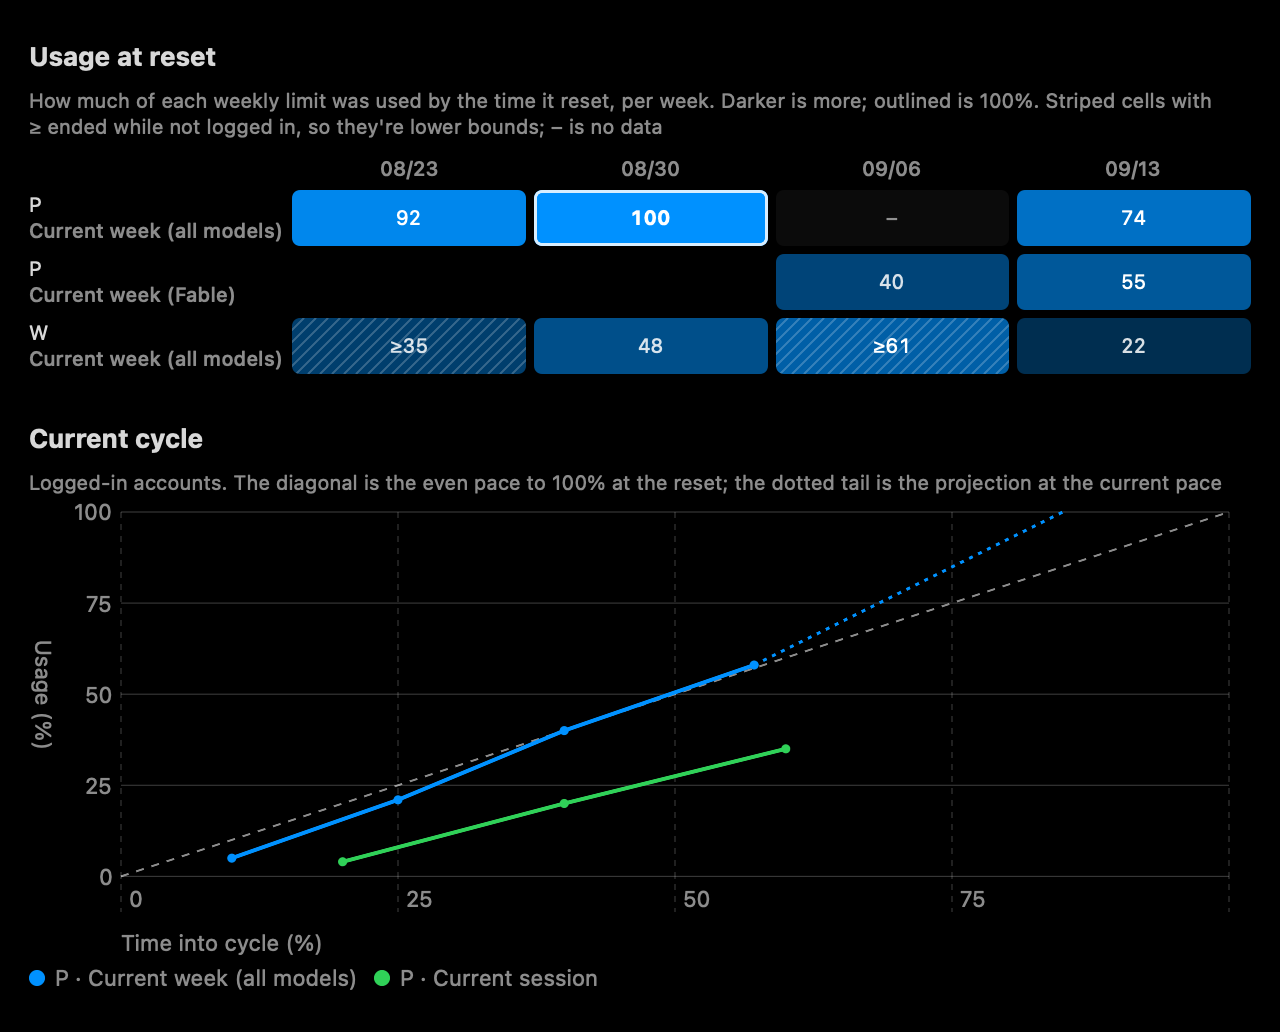
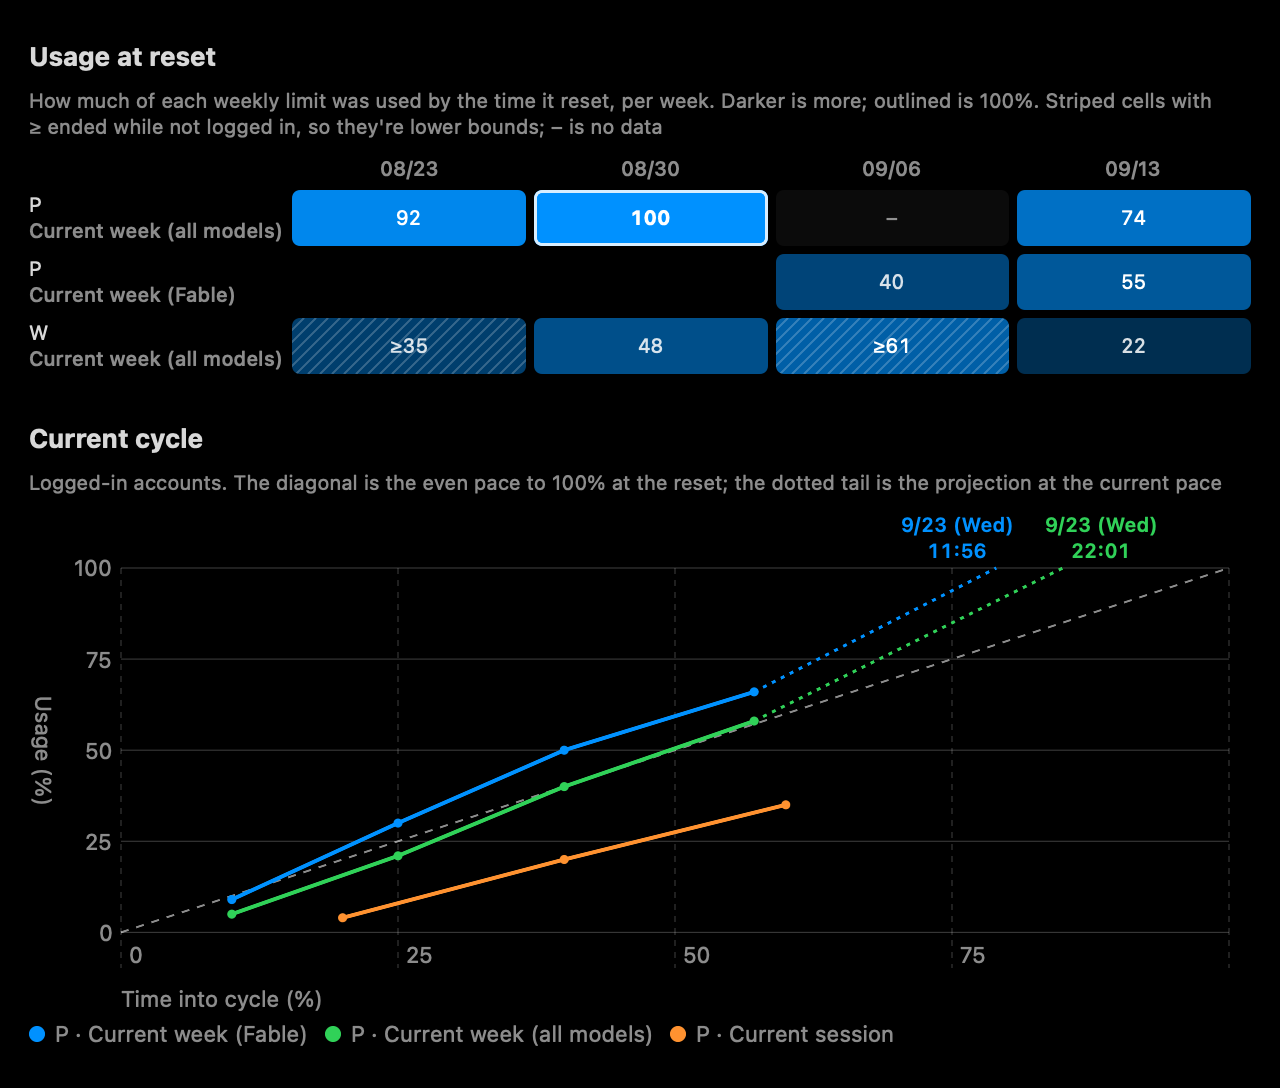
Label when each projected tail hits 100% in the burndown
Each dotted tail that reaches 100% before its reset gets the day and time
(M/d (E) over HH:mm) right above its end, in the line's color, so the
absolute time is readable on a chart whose x axis is the share of the cycle.
Hovering shows the reset and how much earlier the limit comes. Labels sit
on one row; only where they would overlap or leave the chart are they
nudged sideways (AnalyticsModel.spread, which moves overlapping runs as
little as possible). The panel is unchanged.

diff --git a/Sources/Quotaback/Core/AnalyticsModel.swift b/Sources/Quotaback/Core/AnalyticsModel.swift
@@ -122,6 +122,8 @@ enum AnalyticsModel {
         let elapsed: Double
         let percent: Double
         let kind: Kind
+        /// The reset that ends this cycle
+        let resetsAt: Date
 
         var id: String { "\(series) \(kind) \(at.timeIntervalSince1970)" }
     }
@@ -144,14 +146,64 @@ enum AnalyticsModel {
             let series = "\(lw.account.id) \(w.key)"
             let label = "\(titles(lw.account)) · \(w.title)"
             var points = lw.points.map {
-                BurnPoint(series: series, label: label, at: $0.0, elapsed: elapsed($0.0), percent: $0.1, kind: .observed)
+                BurnPoint(series: series, label: label, at: $0.0, elapsed: elapsed($0.0), percent: $0.1, kind: .observed,
+                          resetsAt: reset)
             }
             if let eta = lw.estimate.limitETA, let last = lw.points.last {
-                points += [BurnPoint(series: series, label: label, at: last.0, elapsed: elapsed(last.0), percent: last.1, kind: .projected),
-                           BurnPoint(series: series, label: label, at: eta, elapsed: elapsed(eta), percent: 100, kind: .projected)]
+                points += [BurnPoint(series: series, label: label, at: last.0, elapsed: elapsed(last.0), percent: last.1, kind: .projected,
+                                     resetsAt: reset),
+                           BurnPoint(series: series, label: label, at: eta, elapsed: elapsed(eta), percent: 100, kind: .projected,
+                                     resetsAt: reset)]
             }
             return points
         }
     }
 
+    /// The end of a projected tail: when the window is projected to hit its limit before the reset
+    struct LimitMark: Identifiable, Hashable {
+        let series: String
+        let label: String
+        let elapsed: Double
+        let at: Date
+        let resetsAt: Date
+
+        var id: String { series }
+    }
+
+    /// The limit marks of `burndown`'s projections, earliest first
+    static func limitMarks(_ points: [BurnPoint]) -> [LimitMark] {
+        points.filter { $0.kind == .projected && $0.percent >= 100 }
+            .sorted { $0.at < $1.at }
+            .map { LimitMark(series: $0.series, label: $0.label, elapsed: $0.elapsed, at: $0.at, resetsAt: $0.resetsAt) }
+    }
+
+    /// Centers for labels `width` wide that want to sit at `xs`, moved as little as possible so that none overlap
+    /// and all stay `within` (best effort: when they can't all fit, they overlap evenly). Same order as `xs`
+    static func spread(_ xs: [Double], width: Double, within bounds: ClosedRange<Double>) -> [Double] {
+        let order = xs.indices.sorted { xs[$0] < xs[$1] }
+        let lo = bounds.lowerBound + width / 2, hi = max(lo, bounds.upperBound - width / 2)
+        // Runs of labels packed side by side; a run sits where the mean of its labels' wishes puts it
+        struct Run { var first: Int; var count: Int; var sum: Double; var start: Double }
+        var runs: [Run] = []
+        for (k, i) in order.enumerated() {
+            let wish = min(hi, max(lo, xs[i]))
+            var run = Run(first: k, count: 1, sum: wish, start: wish)
+            while let prev = runs.last, prev.start + Double(prev.count) * width > run.start {
+                runs.removeLast()
+                let count = prev.count + run.count
+                // Each label's wish minus its offset in the merged run
+                let sum = prev.sum + run.sum - Double(prev.count) * width * Double(run.count)
+                let span = Double(count - 1) * width
+                let start = hi - lo >= span ? min(hi - span, max(lo, sum / Double(count))) : lo
+                run = Run(first: prev.first, count: count, sum: sum, start: start)
+            }
+            runs.append(run)
+        }
+        var out = xs
+        for run in runs {
+            let step = run.count > 1 ? min(width, (hi - lo) / Double(run.count - 1)) : 0
+            for k in 0..<run.count { out[order[run.first + k]] = run.start + Double(k) * step }
+        }
+        return out
+    }
 }

diff --git a/Sources/Quotaback/AnalyticsView.swift b/Sources/Quotaback/AnalyticsView.swift
@@ -150,6 +150,10 @@ struct AnalyticsCharts: View {
         if points.isEmpty {
             empty()
         } else {
+            // Explicit colors so that the limit labels (plain views, not marks) can match their lines
+            let labels = points.map(\.label).reduce(into: [String]()) { if !$0.contains($1) { $0.append($1) } }
+            let color = { (label: String) in Self.seriesColors[(labels.firstIndex(of: label) ?? 0) % Self.seriesColors.count] }
+            let marks = AnalyticsModel.limitMarks(points)
             Chart {
                 LineMark(x: .value(L10n.analyticsElapsed, 0), y: .value("%", 0), series: .value("Line", "ideal"))
                     .foregroundStyle(Color.secondary)
@@ -169,14 +173,54 @@ struct AnalyticsCharts: View {
                     }
                 }
             }
+            .chartForegroundStyleScale(domain: labels, range: labels.map(color))
             .chartXScale(domain: 0...100)
             .chartYScale(domain: 0...100)
             .chartXAxisLabel(L10n.analyticsElapsed)
             .chartYAxis { AxisMarks(position: .leading) }
             .chartYAxisLabel(L10n.analyticsUsage, position: .leading)
             .chartLegend(position: .bottom, alignment: .leading)
+            // Above the end of each tail, nudged sideways only where labels would overlap or leave the chart
+            .chartOverlay { proxy in
+                GeometryReader { geo in
+                    let plot = geo[proxy.plotAreaFrame]
+                    let xs = AnalyticsModel.spread(marks.map { plot.minX + (proxy.position(forX: $0.elapsed) ?? 0) },
+                                                   width: Self.limitLabelWidth, within: 0...geo.size.width)
+                    ForEach(Array(zip(marks, xs)), id: \.0.id) { m, x in
+                        limitLabel(m, color: color(m.label))
+                            .position(x: x, y: plot.minY - Self.limitLabelHeight / 2 - 2)
+                    }
+                }
+            }
             .frame(height: 240)
+            .padding(.top, marks.isEmpty ? 0 : Self.limitLabelHeight + 2)
         }
+    }
+
+    /// When the tail hits 100%: the day over the time, in the line's color. Hover for the reset and how much earlier
+    private func limitLabel(_ m: AnalyticsModel.LimitMark, color: Color) -> some View {
+        VStack(spacing: 0) {
+            Text(Self.limitFormat("M/d (E)", m.at))
+            Text(Self.limitFormat("HH:mm", m.at))
+        }
+        .font(.caption2.monospacedDigit().weight(.semibold))
+        .foregroundStyle(color)
+        .fixedSize()
+        .help(L10n.analyticsLimitHelp(WindowRow.format(m.at), L10n.duration(m.resetsAt.timeIntervalSince(m.at)),
+                                      WindowRow.format(m.resetsAt)))
+    }
+
+    /// Room a limit label takes, a little more than "12/30 (Wed)" so that neighbors keep a gap
+    private static let limitLabelWidth: CGFloat = 72
+    private static let limitLabelHeight: CGFloat = 26
+    private static let seriesColors: [Color] = [.blue, .green, .orange, .purple, .red, .teal, .pink, .yellow]
+
+    /// The parts of the panel's "M/d (E) HH:mm"
+    private static func limitFormat(_ format: String, _ d: Date) -> String {
+        let f = DateFormatter()
+        f.locale = L10n.locale
+        f.dateFormat = format
+        return f.string(from: d)
     }
 
 }

diff --git a/Tests/QuotabackTests/AnalyticsModelTests.swift b/Tests/QuotabackTests/AnalyticsModelTests.swift
@@ -120,6 +120,43 @@ final class AnalyticsModelTests: XCTestCase {
         XCTAssertEqual(projected.map(\.percent), [40, 100])
     }
 
+    func testLimitMarksAreTheProjectedLimitsEarliestFirst() {
+        let reset = t0 + 4 * day
+        let start = reset - week
+        let live = [("a", 0.9), ("b", 0.3), ("c", nil)].map { key, share in
+            AnalyticsInput.LiveWindow(account: p, estimate: estimate(window(key, percent: 20, resetsAt: reset),
+                                                                     eta: share.map { start + $0 * week }),
+                                      points: [(start + 0.1 * week, 10), (start + 0.2 * week, 20)])
+        }
+        let marks = AnalyticsModel.limitMarks(AnalyticsModel.burndown(live, titles: titles))
+        XCTAssertEqual(marks.map(\.series), ["b", "a"].map { "\(p.id) \($0)" })
+        XCTAssertEqual(marks.first?.at, start + 0.3 * week)
+        XCTAssertEqual(marks.first?.resetsAt, reset)
+    }
+
+    func testSpreadMovesOnlyOverlappingLabels() {
+        // Far apart: untouched
+        XCTAssertEqual(AnalyticsModel.spread([100, 300, 200], width: 50, within: 0...500), [100, 300, 200])
+        // 200 and 220 overlap: pushed apart evenly around their middle; 400 stays
+        XCTAssertEqual(AnalyticsModel.spread([220, 400, 200], width: 50, within: 0...500), [235, 400, 185])
+        // 200 and 220 push apart to 185 and 235, which now overlaps 150 (50 apart before): all three form one run
+        XCTAssertEqual(AnalyticsModel.spread([150, 200, 220], width: 50, within: 0...500), [140, 190, 240])
+        // Kept inside: the right edge holds the last label at 475
+        XCTAssertEqual(AnalyticsModel.spread([480, 490], width: 50, within: 0...500), [425, 475])
+        // Too many to fit: spread evenly across the whole width, overlapping as little as possible
+        XCTAssertEqual(AnalyticsModel.spread([50, 50, 50], width: 50, within: 0...100), [25, 50, 75])
+    }
+
+    func testDuration() {
+        L10n.apply("en")
+        XCTAssertEqual(L10n.duration(42 * hour + 59 * 60), "1d 18h")
+        XCTAssertEqual(L10n.duration(5 * hour + 3 * 60), "5h 3m")
+        XCTAssertEqual(L10n.duration(9 * 60), "9m")
+        L10n.apply("ja")
+        XCTAssertEqual(L10n.duration(42 * hour), "1日18時間")
+        L10n.apply(nil)
+    }
+
     func estimate(_ w: WindowObservation, eta: Date?) -> WindowEstimate {
         WindowEstimate(window: w, value: .exact(w.percent), nextReset: .known(w.resetsAt ?? t0),
                        observedAt: t0, limitETA: eta)

diff --git a/Tests/QuotabackTests/AnalyticsRenderTests.swift b/Tests/QuotabackTests/AnalyticsRenderTests.swift
@@ -35,8 +35,16 @@ final class AnalyticsRenderTests: XCTestCase {
                                        isLimit: true, detail: nil, cadence: .fixed(week))
         let session = WindowObservation(key: "session", title: "Current session", percent: 35, resetsAt: t0 + 2 * hour,
                                         isLimit: true, detail: nil, cadence: .rolling(5 * hour))
+        let fable = WindowObservation(key: "weekly_scoped/Fable", title: "Current week (Fable)", percent: 66, resetsAt: reset,
+                                      isLimit: true, detail: nil, cadence: .fixed(week))
         let start = reset - week
         let live = [
+            // Its limit label is close to weekly_all's, so one of them goes up a level
+            AnalyticsInput.LiveWindow(
+                account: p,
+                estimate: WindowEstimate(window: fable, value: .exact(66), nextReset: .known(reset), observedAt: t0,
+                                         limitETA: start + 0.79 * week),
+                points: [(start + 0.1 * week, 9), (start + 0.25 * week, 30), (start + 0.4 * week, 50), (t0, 66)]),
             AnalyticsInput.LiveWindow(
                 account: p,
                 estimate: WindowEstimate(window: weekly, value: .exact(58), nextReset: .known(reset), observedAt: t0,

diff --git a/Sources/Quotaback/Core/L10n.swift b/Sources/Quotaback/Core/L10n.swift
@@ -82,6 +82,19 @@ enum L10n {
     static var analyticsElapsed: String { t("Time into cycle (%)", "周期の経過時間 (%)") }
     static var analyticsUsage: String { t("Usage (%)", "消費率 (%)") }
     static var analyticsNoData: String { t("No data", "データなし") }
+    /// Tooltip of a limit mark on the burndown: when, how long before the reset, and the reset
+    static func analyticsLimitHelp(_ at: String, _ lead: String, _ reset: String) -> String {
+        t("Limit hit \(at) at the current pace, \(lead) before the reset \(reset)",
+          "このペースだと \(at) に上限（リセット \(reset) の \(lead) 前）")
+    }
+    /// "1d 18h" / "1日18時間". Hours only under a day, minutes only under an hour
+    static func duration(_ seconds: TimeInterval) -> String {
+        let minutes = max(0, Int(seconds / 60))
+        let (d, h, m) = (minutes / 1440, minutes % 1440 / 60, minutes % 60)
+        if d > 0 { return t("\(d)d \(h)h", "\(d)日\(h)時間") }
+        if h > 0 { return t("\(h)h \(m)m", "\(h)時間\(m)分") }
+        return t("\(m)m", "\(m)分")
+    }
 
     // MARK: Fetch errors
 
